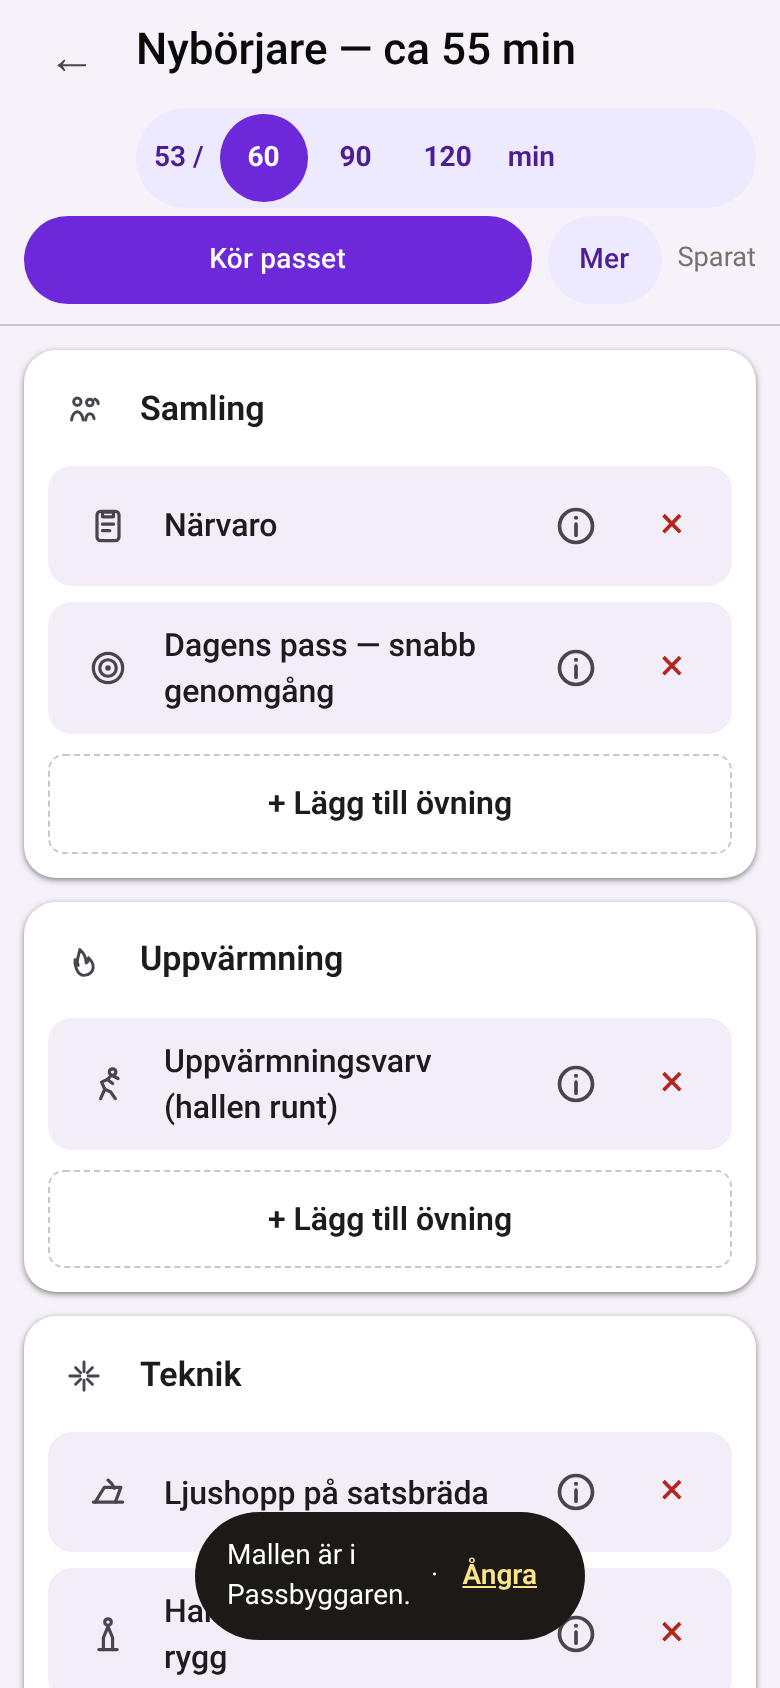
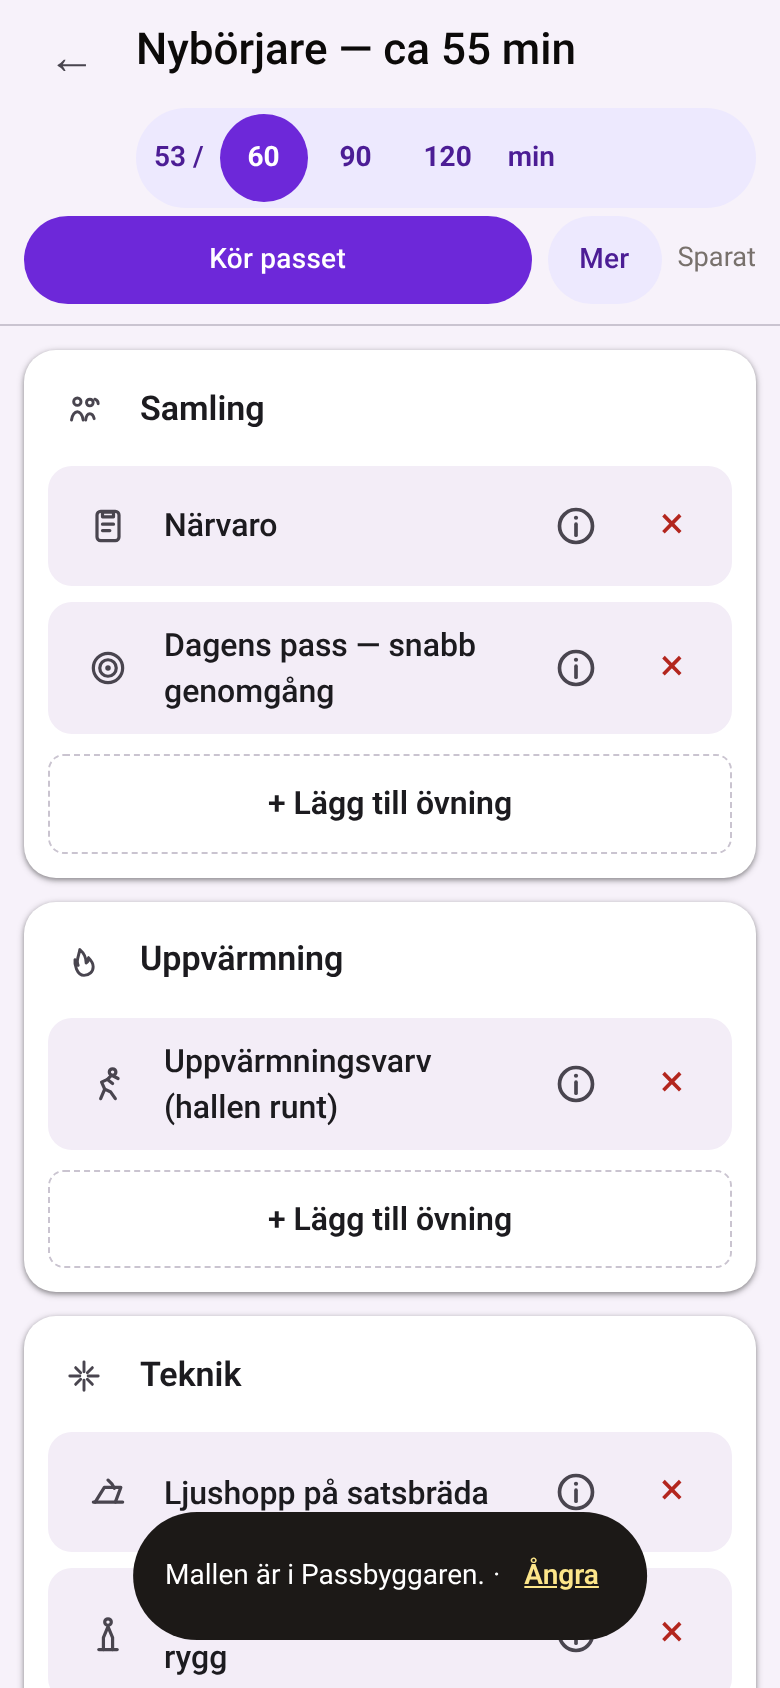
Verifier: Slice 41 re-verify (ccd3c31) — PASS 57/57; AC8 Kör passet + AC2-reX fixed; bundle +632 B gz

Changed region(s): [[0.1538, 0.8934, 0.8308, 0.9858]]

diff --git a/verifier/slice-41-verify-report.md b/verifier/slice-41-verify-report.md
@@ -1,95 +1,91 @@
-# Slice 41 «Ångra» — Verifier report
+# Slice 41 «Ångra»: Verifier report (re-verify)
 
-**Overall: FAIL** (2 defects: AC8 Kör passet exit, AC2/B1 stale autosave after Ångra). Everything else passes.
+**Overall: PASS.** Both earlier defects (AC8 Kör passet, AC2-reX stale autosave after Ångra) are fixed. All 57 driven checks pass in one clean full run at the branch tip.
 
 | | |
 |---|---|
 | PR | https://github.com/Drevmok/traningsplaneringen/pull/45 |
-| Verified HEAD | `12fb8749eed90760d7da0e67039d04cc57c1a573` (`slice-41-code`), base `main` @ `ce799ca` |
-| When | 2026-10-14, 09:58–10:20 (Europe/Stockholm) |
+| Verified HEAD | `ccd3c310a37af6705ac9107bed89136612ff54bf` (`slice-41-code` tip after fetch), base `main` @ `ce799ca` |
+| Fix commits covered | `0836eb6` (AC8 + AC2 fixes) and `ccd3c31` (CSS only: undo toast `width:max-content`, `max-width:calc(100vw - 24px)`, Ångra `nowrap`). `bbabfde` holds Planner's separate `verify-b` pack; it touches no app code |
+| When | 2026-10-14, 10:27–10:42 (Europe/Stockholm). Clean full run finished 10:38 |
 | How | `verify-traningsplaneraren` skill: Launch → Doctor → Drive → Evidence. Headless Chrome via playwright-core, 390×844 touch (plus 1280×800 for AC18 desktop) |
-| Driver | `verifier/slice-41-verify.mjs` (my own script, separate from Builder's smoke). It reuses only `verifier/slice-41-seed.ts` for fixed passes |
-| Results | `verifier/slice-41-verify-results.json`, log `verifier/slice-41-verify-log.txt`: **49/51 checks pass** in one full run |
-| Screenshots | `verifier/slice-41-screenshots/v41_*.png` |
+| Driver | `verifier/slice-41-verify.mjs`. It is extended for this re-verify with `A2y` (4 new AC2-reX variants), `AC8-korpasset-stored`, `AC8-korpasset` that now also asserts no toast during the run, and `AC9-geom` (390 px one-line mall toast, for `ccd3c31`) |
+| Results | `verifier/slice-41-verify-results.json` (sha `ccd3c31`), log `verifier/slice-41-verify-log.txt`: **57/57 pass** |
+| Screenshots | `verifier/slice-41-screenshots/v41_*.png` (refreshed by this run) |
 
 ## Setup / Doctor
 
-- `npm run build` on the branch: exit 0. `npx tsc -b`: 0. `npm run lint`: 0 errors, 15 warnings (all pre-existing). `bun test src`: **210 pass / 0 fail** (25 files). `bun test tools/bank`: 26/26.
-- There is no `npm test` script in `app/package.json` on main or on the branch. The repo's test command is `bun test src`, so AC22's «npm test» is read as that.
-- Preview `npm run preview -- --host 127.0.0.1 --port 4173`: HTTP 200 on `/traningsplaneringen/`. Footer in Passbyggaren shows «Träningsplaneraren · Slice 41».
-- Main `ce799ca`: a separate worktree at `/tmp/s41x/main`, preview on :57241, used for bundle and parity checks.
-- AC11: branch bank build (`VITE_SUPABASE_URL=https://bank-mock.supabase.co`, local publishable key) on :57240. The browser's `*.supabase.co` traffic is routed to **my own local stand-in** (`verifier/slice-36-local/up.sh`, `S32_DIR=/tmp/s41x/sb`, ports 57230–57235; 36-03 smoke 8× `t`). The run made no live Supabase request (`no-live` PASS). I inserted and then deleted one row, `V41 klubbmall`, in the local DB only.
-- Note: another Slice 41 setup was running on this box at the same time (`/tmp/s41v`, ports 57130–57143). I used no part of it.
+- Verified in an **isolated detached worktree** (`/tmp/s41x/rv` @ `ccd3c31`). The reason: while my first full run was going, the shared worktree `/workspace/gp-s41` moved from `0836eb6` to `ccd3c31` and its `app/dist` was rebuilt at 10:33. That first run passed 56/56, but it ran on mixed assets, so I discarded it and ran everything again on the fixed tip.
+- `npm run build`: exit 0. `npx tsc -b`: 0. `npm run lint`: 0 errors, 15 warnings (all pre-existing). `bun test src`: **211 pass / 0 fail**, including the new `autosave.test.ts` case "remove → write → restoreDraft → same remove". `bun test tools/bank`: 26/26.
+- Preview `vite preview --host 127.0.0.1 --port 4173`: HTTP 200. Footer in Passbyggaren shows «Träningsplaneraren · Slice 41».
+- Main `ce799ca` (`/tmp/s41x/main`) runs on :57241 for parity and bundle checks.
+- AC11 uses the branch bank build (`VITE_SUPABASE_URL=https://bank-mock.supabase.co`, local key) on :57240, routed to my **local stand-in** (`verifier/slice-36-local/up.sh`, `S32_DIR=/tmp/s41x/sb`, ports 57230–57235). The 36-03 smoke gave 8× `t`. No live Supabase request was made (`no-live` PASS).
 
-## Per-AC results
+## Earlier defects: re-verify
+
+| Earlier defect | Fix in | Re-verify result |
+|---|---|---|
+| **AC8:** undo survived Kör passet | `SessionBuilder.tsx` Kör passet `onClick`: `pendingUndo = null`, drops an undo toast, un-holds. All before `onRun()` | **PASS.** × → Kör passet → Avsluta after 1.2 s: no toast **during** the run (DOM 0) or after it, Ångra not tappable, and the station stays removed on screen and in storage (`AC8-korpasset`, `AC8-korpasset-stored`, `v41_08`, `v41_09`). Hall, Hem and Golvklart exits still PASS |
+| **AC2-reX:** × → Ångra → × same station was not saved | Shared `lastWritten` in `autosave.ts`. `restoreDraft` sets it after a write. `useAutosave` reads and writes the same ref | **PASS** on all variants: original (6 s, Hem + reload) `AC2-reX`; **hard reload with no Hem flush** `AC2-reX-reload`; **race**: Ångra inside the 800 ms debounce, then × same `AC2-reX-race`; **double cycle** × → Ångra → × → Ångra → reload: all 3 back, deep-equal `AC2-reX-double`; **chain** after the toast ends, × another → 1 stored `AC2-reX-chain`; control `AC2-reX-control`. `v41_22`, `v41_23` |
+
+Focused second run, `ONLY=A2x,A2y,A8`: 13/13 PASS, so the result is stable.
+
+## Per-AC results (at `ccd3c31`)
 
 | AC | Result | Evidence / note |
 |---|---|---|
-| AC1 | PASS | Tapping × on the middle Teknik station removes it at once. No dialog. Toast reads «Borttagen · Ångra», bottom pill y=756 h=64. `v41_01` |
-| AC2 | **FAIL** (one variant) | Basic case PASS: toast lives **5002 ms**, the station stays removed, and the stored pass has no item or placement for it (`v41_02`). **Variant `AC2-reX` FAILS:** × → (1.5 s) Ångra → × the **same** station again. The screen shows it removed and the header says «Sparat», but storage still holds 3 Teknik items. After Hem + reload the station is back (header 18/60 min = all 3). `v41_22`, `v41_23`. Control: re-× a *different* station → stored correctly. See Defect 2 |
-| AC3 | PASS | × → Ångra after 1.5 s: same block, same order; items deep-equal, including minutes, notes and ids. «Ångrat.» shows **2203 ms** with no button. `v41_04` |
-| AC4 | PASS | Stored `hallPlacements` equal to the original. Hallöversikt markers sit at identical normalised x/y before × and after Ångra. `v41_03`, `v41_05` |
-| AC5 | PASS | Reload 42 ms after Ångra: the station is stored. Race variant (Ångra 250 ms after ×, inside the 800 ms debounce): the removal write does not land. Header shows «Sparat» |
-| AC6 | PASS | × A, then × B 3 s later: one toast, still there 7 s after A. Its life from the second × is **5045 ms**, so the timer re-arms. Ångra brings back B only; A stays removed. `v41_06` |
-| AC7 | PASS | × → change minutes on another station: toast and Ångra gone, and the minute change is stored. Editing the title also closes it. `v41_07` |
-| AC8 | **FAIL** (Kör passet) | Hallöversikt → back: PASS. Hem → Fortsätt passet: PASS. Hallöversikt → **Golvklart** → Avsluta golvklart → back: PASS. **Kör passet → Avsluta (1.2 s): FAIL.** «Borttagen · Ångra» is still shown with the Ångra button live, and tapping it restores the station. While Kör passet is open, the toast sits under the run overlay (z 50 < 90) and its timer keeps running. `v41_08`, `v41_09`. See Defect 1 |
-| AC9 | PASS | Built-in Nybörjare over «V41 eget» (3 placed Teknik): one toast «Mallen är i Passbyggaren. · Ångra». Ångra → same id, title, blocks and hall, then «Ångrat.». `v41_10`, `v41_11`. Also driven from Hem «Från mall» (see note 3) |
-| AC10 | PASS | From Mina mallar («V41 egen mall»): toast with Ångra → previous pass back (id, title, blocks, placements). Mina mallar = before + 1 (auto-copy). The source mall is untouched. `v41_15` |
-| AC11 | PASS | Föreningsmall from the local stand-in (`section.club-templates`). Toast sequence over the whole run: `["Mallen är i Passbyggaren. · Ångra", "Ångrat."]`. One toast; the mall text is not repeated and does not show after Ångra. Previous pass back (id, blocks, placements). No copy of the club pass in Mina mallar. `v41_16`, `v41_17` |
-| AC12 | PASS | The mall pass had 3 Teknik auto-placed (Slice 37). After Ångra, stored placements equal the old pass's, and the Hallöversikt DOM markers match the old ones. No mall item ids remain. `v41_12` |
-| AC13 | PASS | Reload after the mall undo: the stored pass has the same id as before the mall. Hem «Fortsätt passet» opens «V41 eget» with 3 Teknik |
-| AC14 | PASS | Mina mallar 0 → 1: one auto-copy of «V41 eget», left on purpose. No «Nybörjare» copy |
-| AC15 | PASS | Använd mall again over the restored pass: still 1 copy of «V41 eget». `v41_13` |
-| AC16 | PASS | Hem «Tomt pass» (only the soft Samling rows) → mall → Ångra: the blank pass is back (title, rows) and Mina mallar stays 0. Also tested with a strictly 0-item pass → same |
-| AC17 | PASS | Mall → add a Teknik station from Biblioteket before Ångra: toast gone, the mall pass is stored with the new station (9 → 10, same id). `v41_18` |
-| AC18 | PASS (desktop + 390 emulated; gap) | Real Tab walk to × (17 Tabs at 390, 25 at 1280) + Enter → focus on Ångra (`:focus-visible`). The toast is **held 7 s** while focused, and Enter undoes. Escape closes it without undo. Shift+Tab out restarts the timer (closes ~5 s later). Keyboard Använd mall → focus on Ångra, held, Enter undoes. Touch emulation: a tap moves focus to Ångra but not `:focus-visible`, so the timer is not held and the toast closes after 5 s. `v41_19_*`. **Gap:** not run on a real 390 px device with an external keyboard. Real iOS Safari `:focus-visible` after programmatic focus (mall confirm) not observed |
-| AC19 | N/A (manual) | VoiceOver cannot run on the box. Proxy PASS: `role=status` is mounted per toast; the separator is `aria-hidden`; Ångra is a `<button type=button>`; the toast DOM changes **0 times** during its 5 s, so no repeat or tick; «Ångrat.» appears in `role=status`. A real VoiceOver pass on iPhone is still needed |
-| AC20 | PASS | No dialog for ×. The Använd mall confirm markup is byte-identical between main and branch (`v41_20_*`). Sparad som egen mall 2202 ms, Delningskoden är kopierad 2203 ms, autosave failure 2205 ms: no button on any. Import shows **no toast on main or branch** (the existing remount drops `importDone`), so it is unchanged and not a regression. Ångra is 53×44 px. While shown, the toast covers «Bläddra bland idéer»; after it closes, that button is hittable again. `v41_21` |
-| AC21 | PASS (soft budget overrun) | See Bundle below: **+593 B gz**, about 81 B over the soft +512 B (F1) |
-| AC22 | PASS | Build green; `bun test src` 210/0; footer «Träningsplaneraren · Slice 41»; asserts at `feedback.test.ts:25/45/46` and `clubTemplates.test.ts:316` read Slice 41 / `'41'` |
+| AC1 | PASS | × removes at once, no dialog. Toast «Borttagen · Ångra», bottom pill y=756 h=64. `v41_01` |
+| AC2 | PASS | Toast lifetime 5000 ms. The station stays removed, and storage has no item or placement for it. AC2-reX variants all PASS (above). `v41_02` |
+| AC3 | PASS | Same block and order; items deep-equal. «Ångrat.» shows for 2202 ms with no button. `v41_04` |
+| AC4 | PASS | Stored `hallPlacements` equal; Hallöversikt markers at the same x/y. `v41_03`, `v41_05` |
+| AC5 | PASS | Reload 47 ms after Ångra: stored. Debounce race: the removal does not land. «Sparat» after reload |
+| AC6 | PASS | One toast, timer re-armed (5038 ms from the second ×). Ångra brings back B only. `v41_06` |
+| AC7 | PASS | Editing minutes or the title closes the undo. The edit is stored. `v41_07` |
+| AC8 | **PASS** (was FAIL) | Hall / Hem / Golvklart / **Kör passet** all expire the undo. `v41_08`, `v41_09` |
+| AC9 | PASS | Built-in Nybörjare: one toast «Mallen är i Passbyggaren. · Ångra». Ångra brings back the same id, title, blocks and hall. New `AC9-geom`: at 390 px the toast is one line, 257×64, x 67–323 (margins ≥ 12), Ångra 44 px tall. `v41_10`, `v41_11` |
+| AC10 | PASS | Mina mallar source: undo restores. Mina mallar = before + 1; the source is untouched. `v41_15` |
+| AC11 | PASS | Föreningsmall (local stand-in): toast sequence `["Mallen är i Passbyggaren. · Ångra","Ångrat."]`. No club copy saved. `v41_16`, `v41_17` |
+| AC12 | PASS | 3 Teknik auto-placed by the mall. After Ångra: old placements stored and old DOM markers. `v41_12` |
+| AC13 | PASS | Reload after the mall undo gives the same pass id. Hem «Fortsätt passet» opens it |
+| AC14 | PASS | Mina mallar 0 → 1: auto-copy of the old pass only |
+| AC15 | PASS | Mall again: still 1 copy. `v41_13` |
+| AC16 | PASS | Tomt pass / 0-item pass → mall → Ångra: the blank pass is back, Mina mallar unchanged |
+| AC17 | PASS | Adding a station before Ångra closes the toast. The mall pass keeps the edit (9 → 10). `v41_18` |
+| AC18 | PASS (gap) | Tab + Enter → focus on Ångra (`:focus-visible`), held 7 s, Enter undoes. Escape closes; blur re-arms. Same for the keyboard mall flow. Run at 390 and 1280. Touch: not held, closes after 5 s. `v41_19_*`. **Gap:** no real device with an external keyboard; real iOS `:focus-visible` not observed |
+| AC19 | N/A (manual) | VoiceOver cannot run on the box. Proxy PASS: `role=status` per toast, separator `aria-hidden`, `<button type=button>`, 0 DOM mutations during the toast's life, «Ångrat.» in status. A real iPhone VoiceOver pass is still needed |
+| AC20 | PASS | No dialog for ×. The confirm markup is identical to main. Other toasts last 2.2 s with no button. Import behaves as on main. Ångra is 53×44. Covered controls can be tapped again once the toast closes. `v41_20_*`, `v41_21` |
+| AC21 | PASS (soft budget overrun) | **+632 B gz** vs main. See Bundle |
+| AC22 | PASS | Build green; `bun test src` 211/0; footer «Träningsplaneraren · Slice 41» |
 
-**Counts (22 ACs):** 18 PASS (including AC18 with a device gap and AC21 with the soft overrun), **2 FAIL (AC2, AC8)**, 1 N/A manual (AC19), 0 SKIP. AC11 was driven for real against the local stand-in, not skipped.
-
-## Defects (Builder)
-
-### Defect 1: AC8, the undo survives Kör passet
-Kör passet is an overlay (`App.tsx` renders `<RunPass>` over a still-mounted `SessionBuilder`). The builder never unmounts, so `pendingUndo` and the toast timer keep going. If the coach comes back within 5 s, Ångra is still live and works.
-**Fix hint:** in `SessionBuilder.tsx` the Kör passet button `onClick` (≈ line 533, before `onRun()`), drop the undo: `pendingUndo = null` and close an undo toast (e.g. `if (toast?.undo) closeToast()`). Keep plain toasts as they are if you like.
-
-### Defect 2: AC2 / B1, re-removing after Ångra is never saved (data loss)
-Sequence: × (the debounced write lands, so useAutosave's `last.json` = pass without the station) → Ångra (`restoreDraft` writes the full pass **straight to storage, behind useAutosave's back**) → × the same station again. The new session JSON equals `last.json`, so the Slice 41 branch in `useAutosave.ts` (`if (last.current?.json === json) { … return }`) treats it as already written, cancels the timer, and writes nothing. The screen says «Sparat», storage still has the station, and it comes back after reload or Hem (`autosave.flush()` has nothing pending).
-**Fix hint (pick one, small):** make `restoreDraft` and useAutosave agree on what was last written. For example, update useAutosave's last-written JSON when `restoreDraft` writes (a shared module-level `lastWritten` in `autosave.ts` that useAutosave reads), or in the equal-JSON branch skip only when storage really holds that JSON. Add a test: remove → write → restoreDraft → same remove → expect the removal stored.
-Re-verify will rerun `ONLY=A2x,A8,A12,A345 node verifier/slice-41-verify.mjs` plus the full run.
-
-## Notes for Planner (not failures)
-
-1. **Bundle F1 (soft):** see below. +593 B is over +512 B by 81 B. It is soft, so not a FAIL on its own; it is Planner's call. The two fixes above should add only a few bytes.
-2. **Focus after Ångra / Escape** lands on `<body>` (the Ångra button unmounts). HANDOFF allowed «leave it if not easy», but for keyboard and switch users focus is lost. It could go back to the restored item's × or the builder heading, as HANDOFF suggested. Not in an AC.
-3. **Hem «Från mall» path:** App first creates a **new blank pass** and opens the picker (the confirm shows because of the Samling rows). Ångra therefore brings back that blank «Nytt pass», not the earlier pass with stations, which is only in Mina mallar (Slice 39 copy). This matches the lock (before = the pass on screen), but a coach might expect the old pass. Worth a Planner/Docs look; AC9 was proven from the builder's «Använd mall».
-4. The toast covers «Bläddra bland idéer» (an empty-block button) while shown, for at most 5 s or while held by focus. It is hittable again after close, which is what AC20 asks.
-5. On a phone, the mall-confirm focus move did not hold the toast in Chrome touch emulation. Real iOS Safari should still be spot-checked: if Safari treats that programmatic focus as `:focus-visible`, the mall toast would stay until blur.
+**Counts (22 ACs):** 21 PASS (AC18 with a device gap, AC21 with the soft overrun), 0 FAIL, 1 N/A manual (AC19), 0 SKIP.
 
 ## Blast radius
 
-- **Slice 37 auto-place + Slice 39 auto-copy on Använd mall:** a built-in mall over the same seeded pass gives identical blocks, placements, hall and Mina mallar on main and branch; only the toast differs (`BR-mall` PASS).
-- **Slice 39 autosave:** «Sparat» after Ångra + reload PASS, and the debounce race PASS. The **re-× after Ångra** case fails (Defect 2). This is new code-path interaction and does not exist on main.
-- **Slice 36 club toast:** now the shared undo toast; shown once (AC11).
-- **Other builder toasts:** unchanged, 2.2 s, no button (AC20). HallBoard has its own toast; its code is not touched by the diff.
-- No page errors in any run. No live Supabase host contacted.
+- **Slice 37/39 on Använd mall:** blocks, placements, hall and Mina mallar are identical on main and branch; only the toast differs (`BR-mall` PASS).
+- **Slice 39 autosave:** the shared `lastWritten` replaces useAutosave's private ref. Seed status «Sparat», the debounce race and every re-× variant pass, and `bun test` covers it.
+- **`ccd3c31` CSS:** `.toast` is shared by every builder toast. Plain toasts (Sparad som egen mall, Kopierat, failure) still pass AC20-plain. The × toast keeps the same geometry (y 756, h 64), and the bottom controls can be tapped after close.
+- No page errors. No live Supabase host contacted.
 
 ## Bundle (AC21, `gzip -9c`, sum of `dist/assets/*.js` + `*.css`)
 
-| | main `ce799ca` | branch `12fb874` | Δ |
-|---|---|---|---|
-| all js + css | 218 201 | 218 794 | **+593** |
-| eager (assets in `index.html`) | 154 314 | 154 899 | +585 |
-| main chunk `index-*.js` | 140 155 | 140 708 | +553 |
-| css | 14 159 | 14 191 | +32 |
+| | main `ce799ca` | first verify `12fb874` | tip `ccd3c31` | Δ vs main |
+|---|---|---|---|---|
+| all js + css | 218 201 | 218 794 | 218 833 | **+632** |
+| eager (in `index.html`) | 154 314 | 154 899 | 154 944 | +630 |
+| main chunk `index-*.js` | 140 155 | 140 708 | 140 729 | +574 |
+| css | 14 159 | 14 191 | 14 215 | +56 |
 
-These match Builder's numbers. The soft F1 limit is +512 B, so this is **81 B over**.
+The two fixes added +39 B (+21 JS, +24 CSS). That puts the slice **120 B over the soft +512 B (F1)**, up from 81 B. It is soft, so this is not a FAIL. It is Planner's call.
+
+## Notes for Planner (not failures, carried from the first verify)
+
+1. Focus after Ångra or Escape lands on `<body>`, because the Ångra button unmounts. Not in an AC; possible polish.
+2. Hem «Från mall» → Ångra brings back the blank «Nytt pass» that App created, not the earlier pass, which stays in Mina mallar. This matches the lock, but it may surprise a coach.
+3. The toast covers «Bläddra bland idéer» while shown (5 s at most, or while held by focus).
+4. Real iOS Safari spot check: whether the programmatic focus after the mall confirm counts as `:focus-visible`. If it does, the toast stays until blur.
 
 ## Not done / gaps
 
-- AC19 real VoiceOver on iPhone (manual).
-- AC18 on a real 390 px device with an external keyboard; real iOS `:focus-visible` behaviour.
+- AC19: real VoiceOver on iPhone (manual).
+- AC18: real 390 px device with an external keyboard.
 - PR not merged, Pages not published, Christoffer not contacted.
